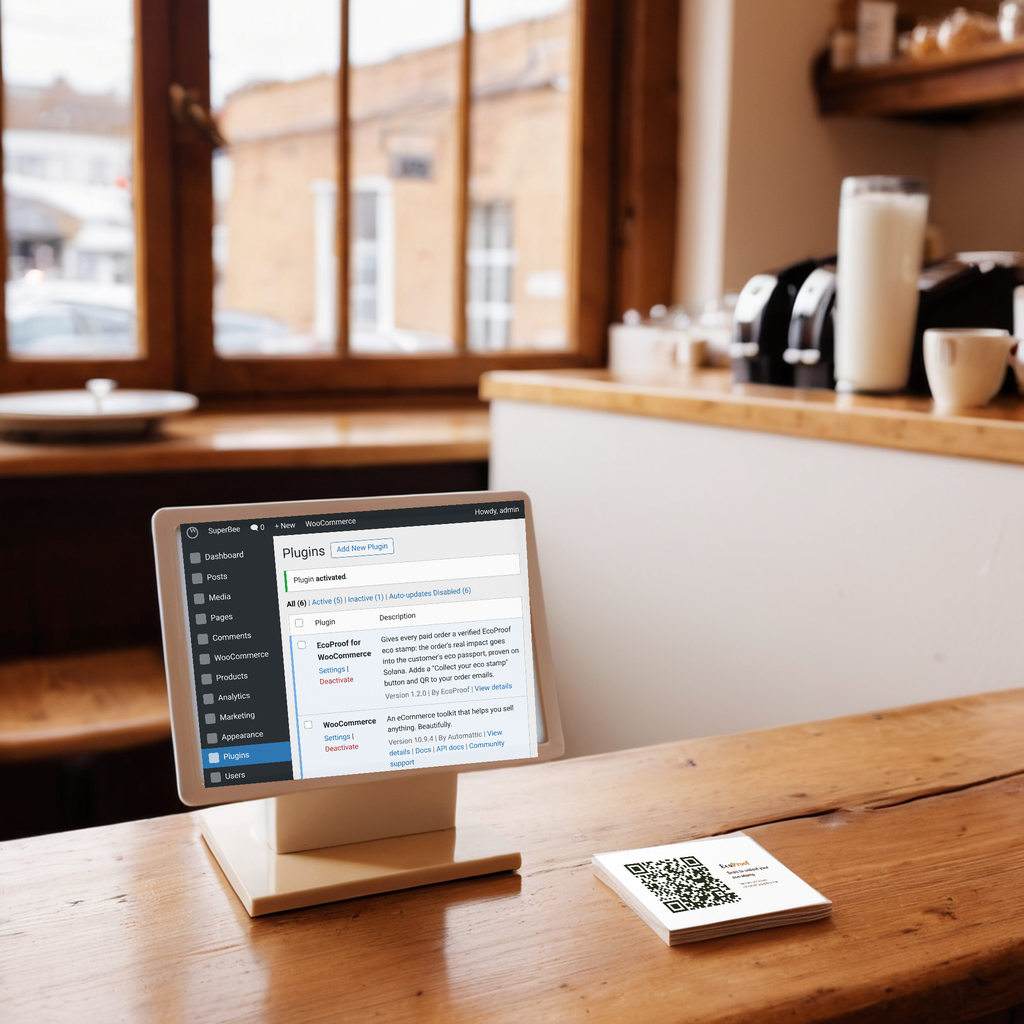
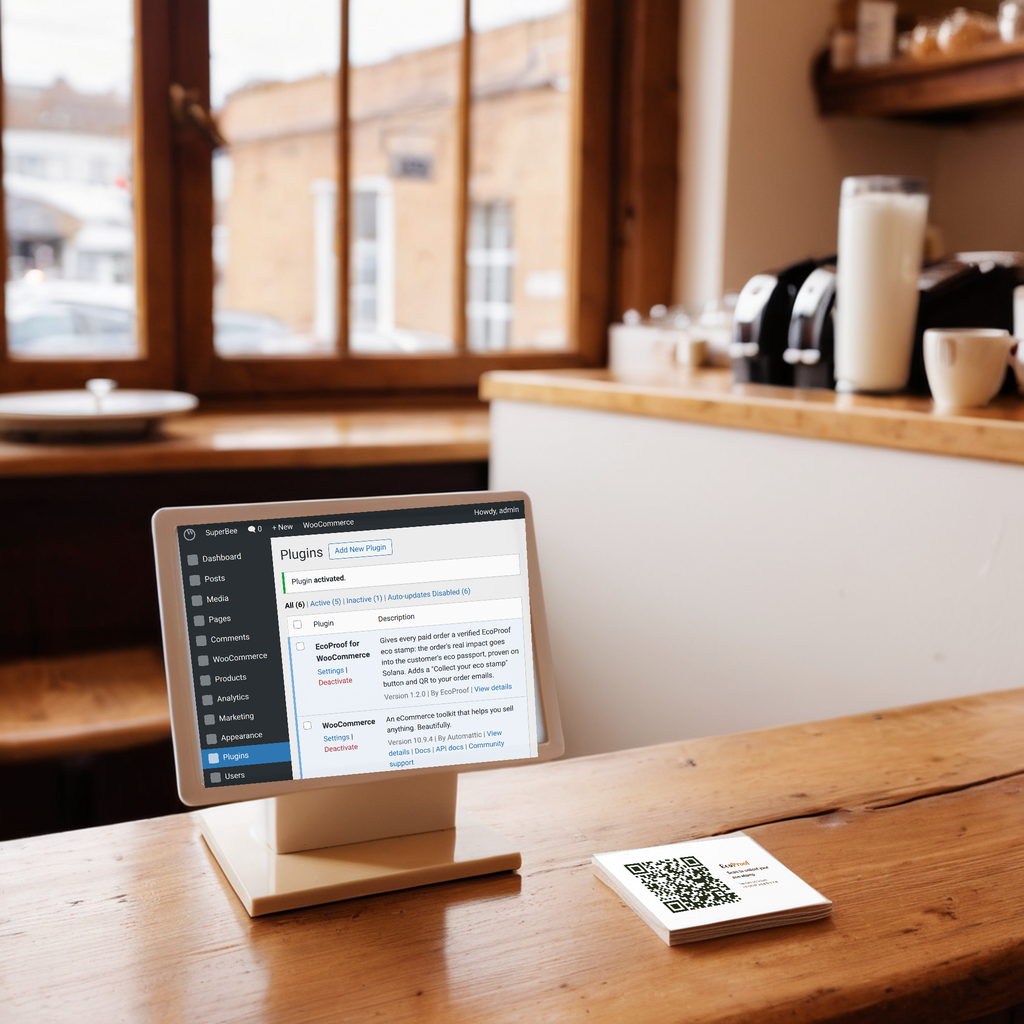
connect step: top-left screen corner left 3 px, down 2 px

Changed region(s): [[0.1562, 0.5, 0.5, 0.75]]

diff --git a/art/steps/connect/compose.py b/art/steps/connect/compose.py
@@ -8,7 +8,7 @@ D = pathlib.Path(__file__).parent
 SS = 2
 scene = Image.open(D/"r1_106.png").convert("RGB"); W,H = scene.size
 big = scene.resize((W*SS,H*SS), Image.LANCZOS)
-SCREEN = [(180,524),(524,500),(538,757),(205,788)]   # inner glass, read off _zoom_screen.png
+SCREEN = [(177,526),(524,500),(538,757),(205,788)]   # inner glass, read off _zoom_screen.png
 CARD = [(591,853),(750,835),(828,902),(670,932)]     # top face of the card stack, read off _zoom_card.png
 def coeffs(src, dst):
     A = []
